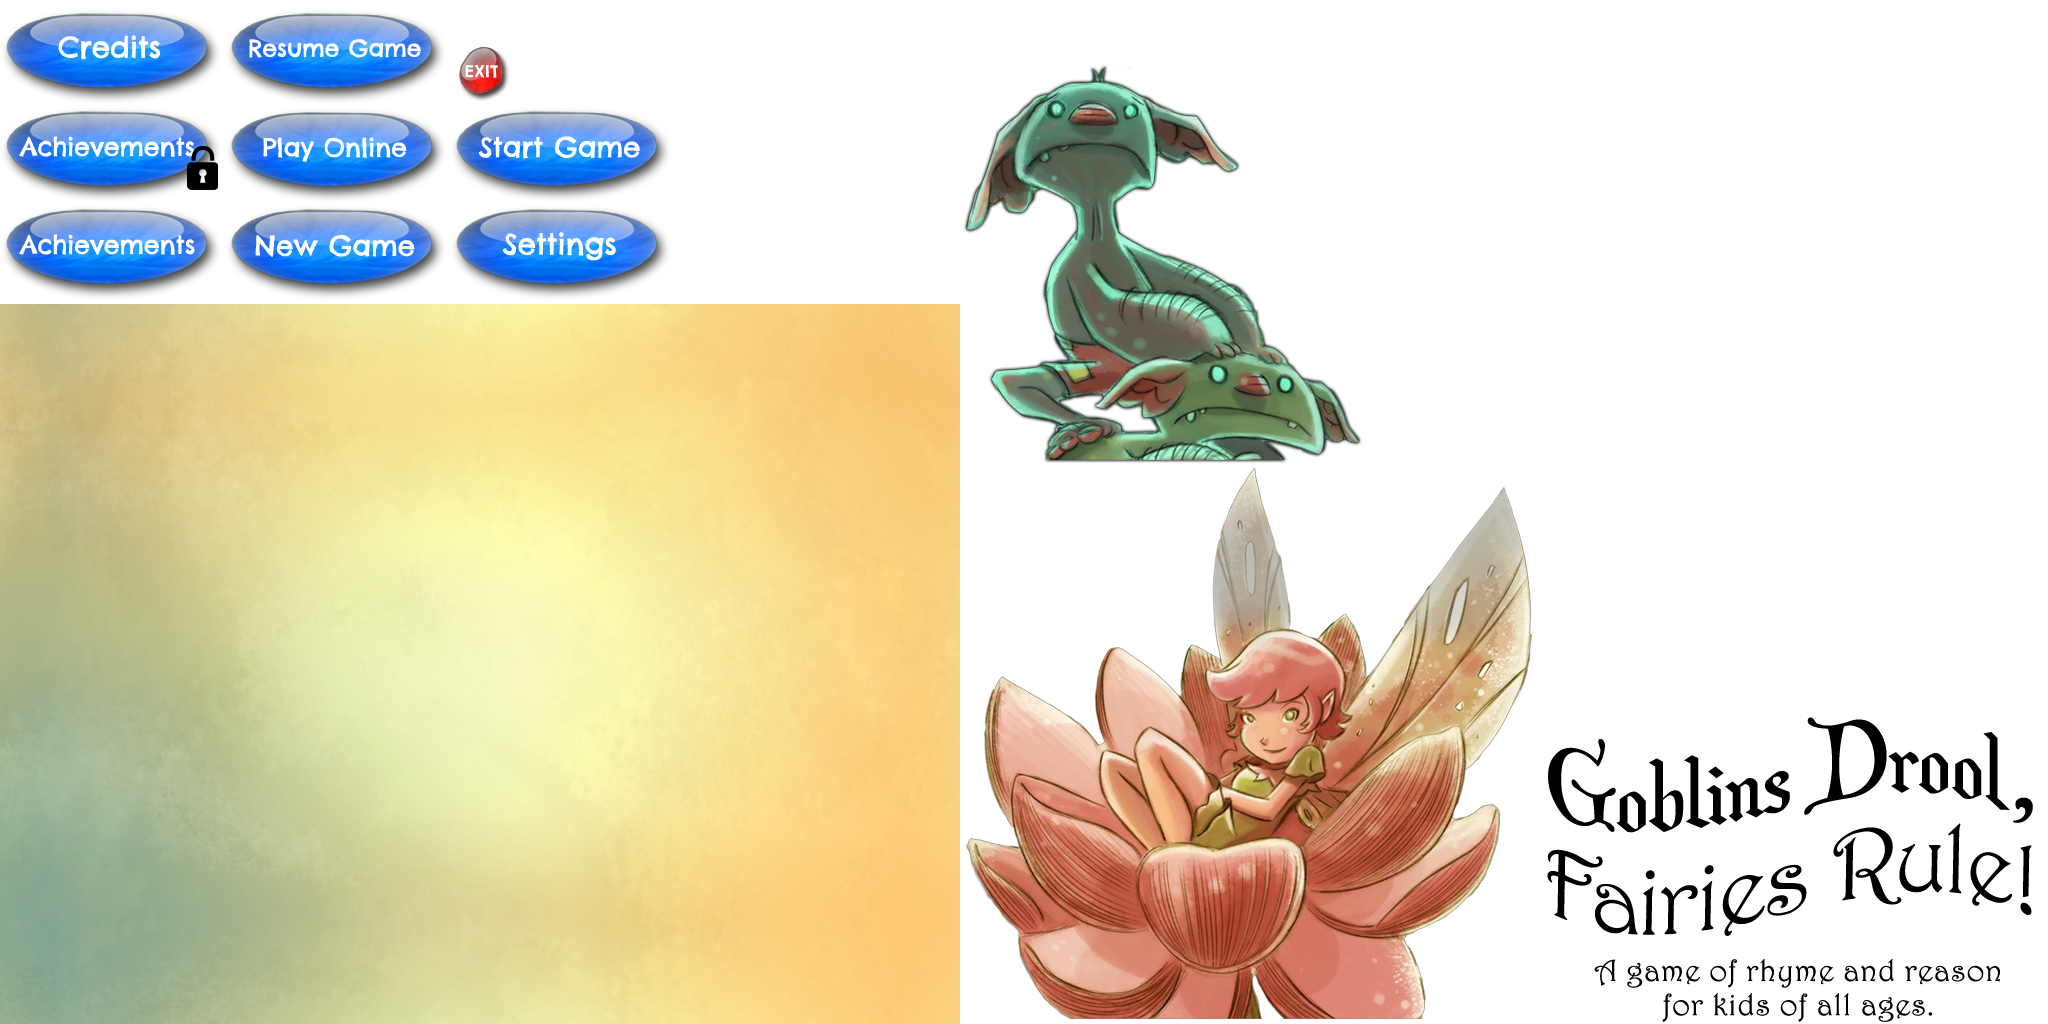
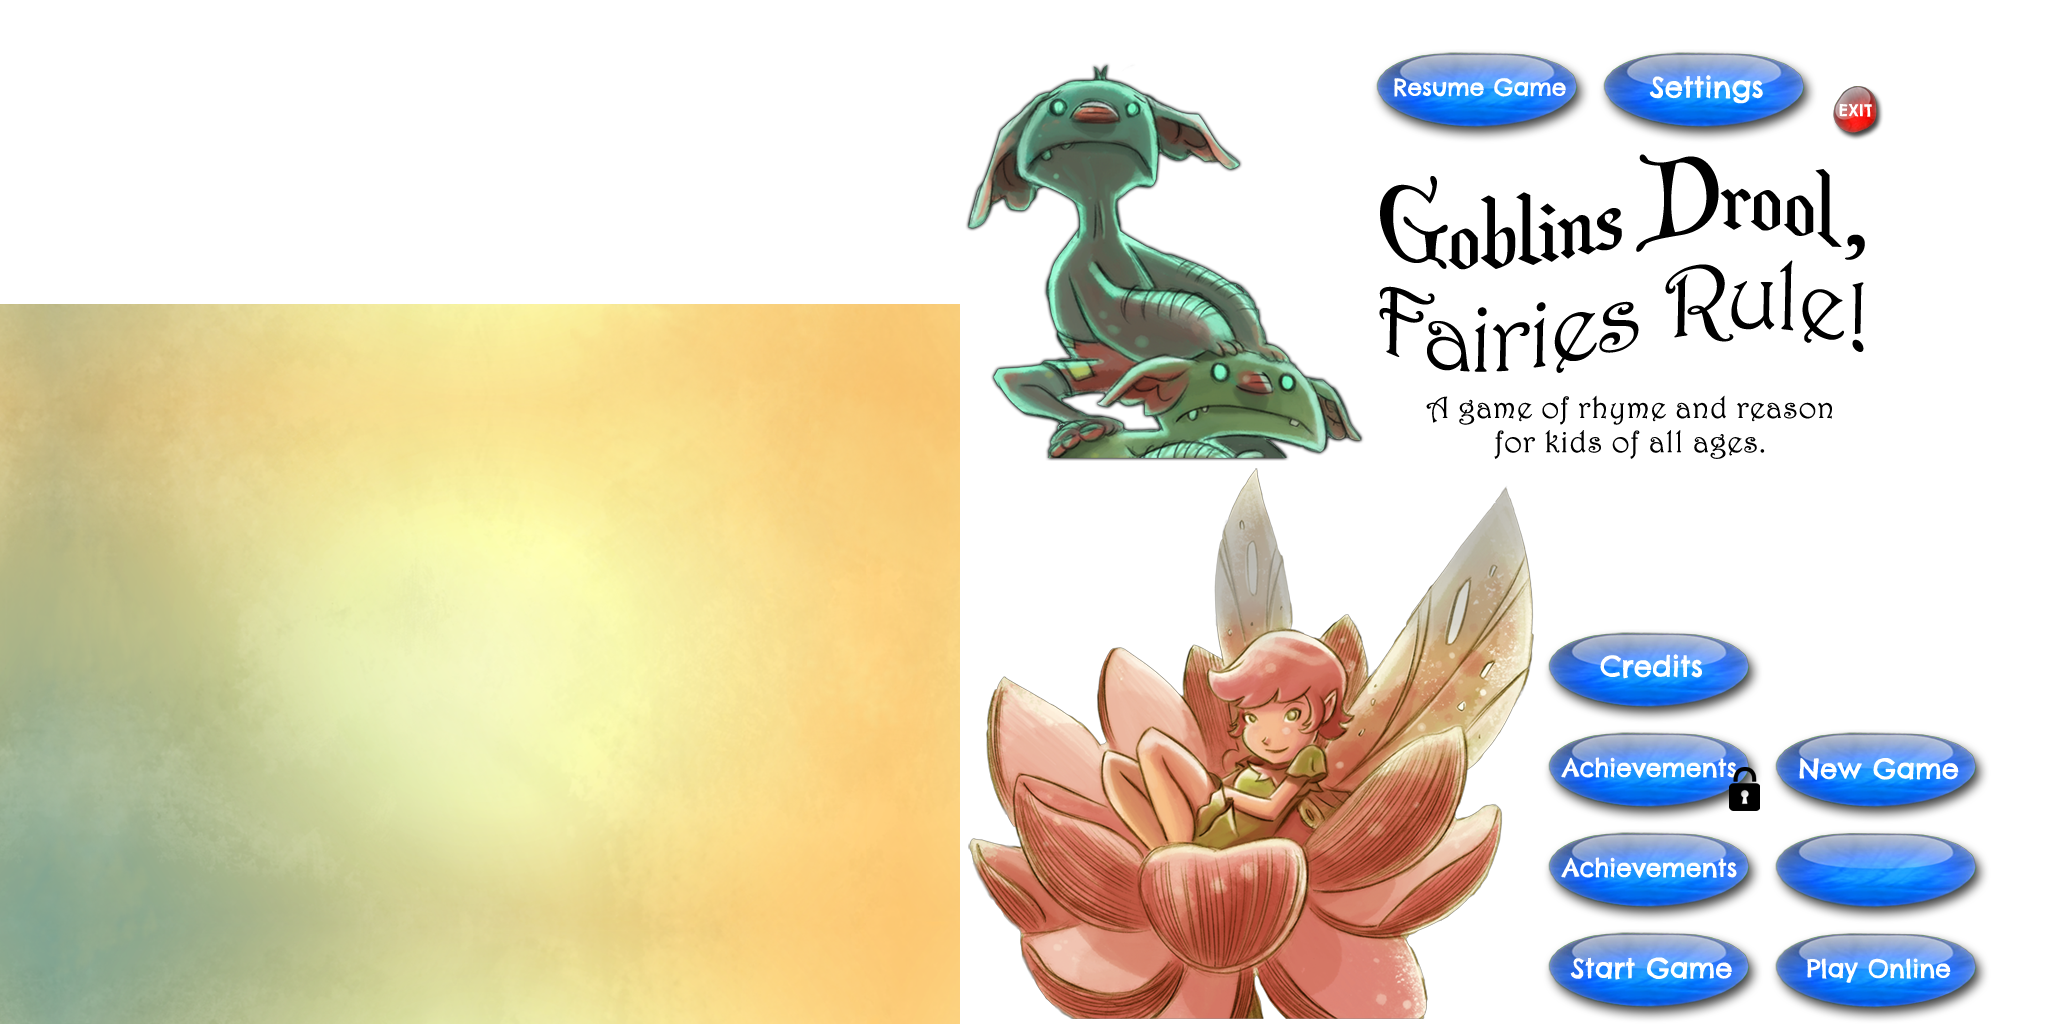
-Main Menu now has a button "How to Play" -Help Menu now has functioning advancement, backwards, and exit buttons -Updated XML file template -Help Menu now correctly loads information from XML files

diff --git a/Assets/GDFR/Scripts/Controllers/HelpMenuController.cs b/Assets/GDFR/Scripts/Controllers/HelpMenuController.cs
@@ -1,0 +1,98 @@
+using System;
+using System.Xml;
+using UnityEngine;
+using UnityEngine.SceneManagement;
+using UnityEngine.UI;
+
+public class SlideData
+{
+    public string imageName;
+    public string text;
+}
+
+public class HelpMenuController : MonoBehaviour
+{
+    public string slideXmlDataPath = "/GDFR/Data/Resources/HowToPlaySlidesData.xml";
+    public Sprite[] mainImageSprites;
+    public Image mainImage;
+    public Text text;
+    public Button backButton;
+    public Button forwardButton;
+
+    private int mCurrentSlideIndex = 0;
+    private SlideData[] mSlideData;
+
+    void Start()
+    {
+        LoadXMLFile();
+
+        ApplySlide(mCurrentSlideIndex);
+    }
+
+    public void Advance()
+    {
+        ApplySlide(++mCurrentSlideIndex);
+    }
+
+    public void GoBack()
+    {
+        ApplySlide(--mCurrentSlideIndex);
+    }
+
+    public void Exit()
+    {
+        SceneManager.UnloadSceneAsync("Help_Additive");
+    }
+
+    private void LoadXMLFile()
+    {
+        XmlDocument slideDocument = new XmlDocument();
+        slideDocument.Load(Application.dataPath + slideXmlDataPath);
+
+        XmlNode rootSlideNode = slideDocument.SelectSingleNode("Slides");
+
+        Debug.Assert(rootSlideNode != null, "rootSlideNode != null");
+        mSlideData = new SlideData[rootSlideNode.ChildNodes.Count];
+
+        foreach (XmlNode slide in rootSlideNode.ChildNodes)
+        {
+            XmlNode indexNode = slide.SelectSingleNode("Index");
+            int arrayIndex = Int32.Parse(indexNode.InnerText) - 1;
+
+            mSlideData[arrayIndex] = new SlideData();
+
+            XmlNode imageNode = slide.SelectSingleNode("ImagePath");
+            mSlideData[arrayIndex].imageName = imageNode.InnerText;
+
+            XmlNode textNode = slide.SelectSingleNode("Text");
+            mSlideData[arrayIndex].text = textNode.InnerText;
+        }
+    }
+
+    private void ApplySlide(int index)
+    {
+        for(int i = 0; i < mSlideData.Length; i++)
+        {
+            if (mainImageSprites[i].name == mSlideData[index].imageName)
+            {
+                mainImage.sprite = mainImageSprites[i];
+                break;
+            }
+
+            if (i == mSlideData.Length - 1)
+            {
+                Debug.LogError("Could not find sprite for help menu");
+            }
+        }
+
+        text.text = mSlideData[index].text;
+
+        ValidateButtons();
+    }
+
+    private void ValidateButtons()
+    {
+        backButton.interactable = mCurrentSlideIndex != 0;
+        forwardButton.interactable = mCurrentSlideIndex != mSlideData.Length-1;
+    }
+}

diff --git a/Assets/Editor/GDFR/LevelLoader.cs b/Assets/Editor/GDFR/LevelLoader.cs
@@ -28,5 +28,9 @@ public class LevelLoader : ScriptableObject
         EditorSceneManager.OpenScene("Assets/GDFR/Scenes/MainGame.unity");
     }
 
-    
+    [MenuItem("GDFR/Help Menu")]
+    static void LoadHelpMenu()
+    {
+        EditorSceneManager.OpenScene("Assets/GDFR/Scenes/Help_Additive.unity");
+    }
 }

diff --git a/Assets/GDFR/Scripts/Controllers/MainMenuController.cs b/Assets/GDFR/Scripts/Controllers/MainMenuController.cs
@@ -20,7 +20,7 @@ public class MainMenuController : MonoBehaviour
 
 	public void HowToPlay()
 	{
-		Debug.Log("Resume Game");
+	    SceneManager.LoadSceneAsync("Help_Additive", LoadSceneMode.Additive);
 	}
 
 	public void Settings()
